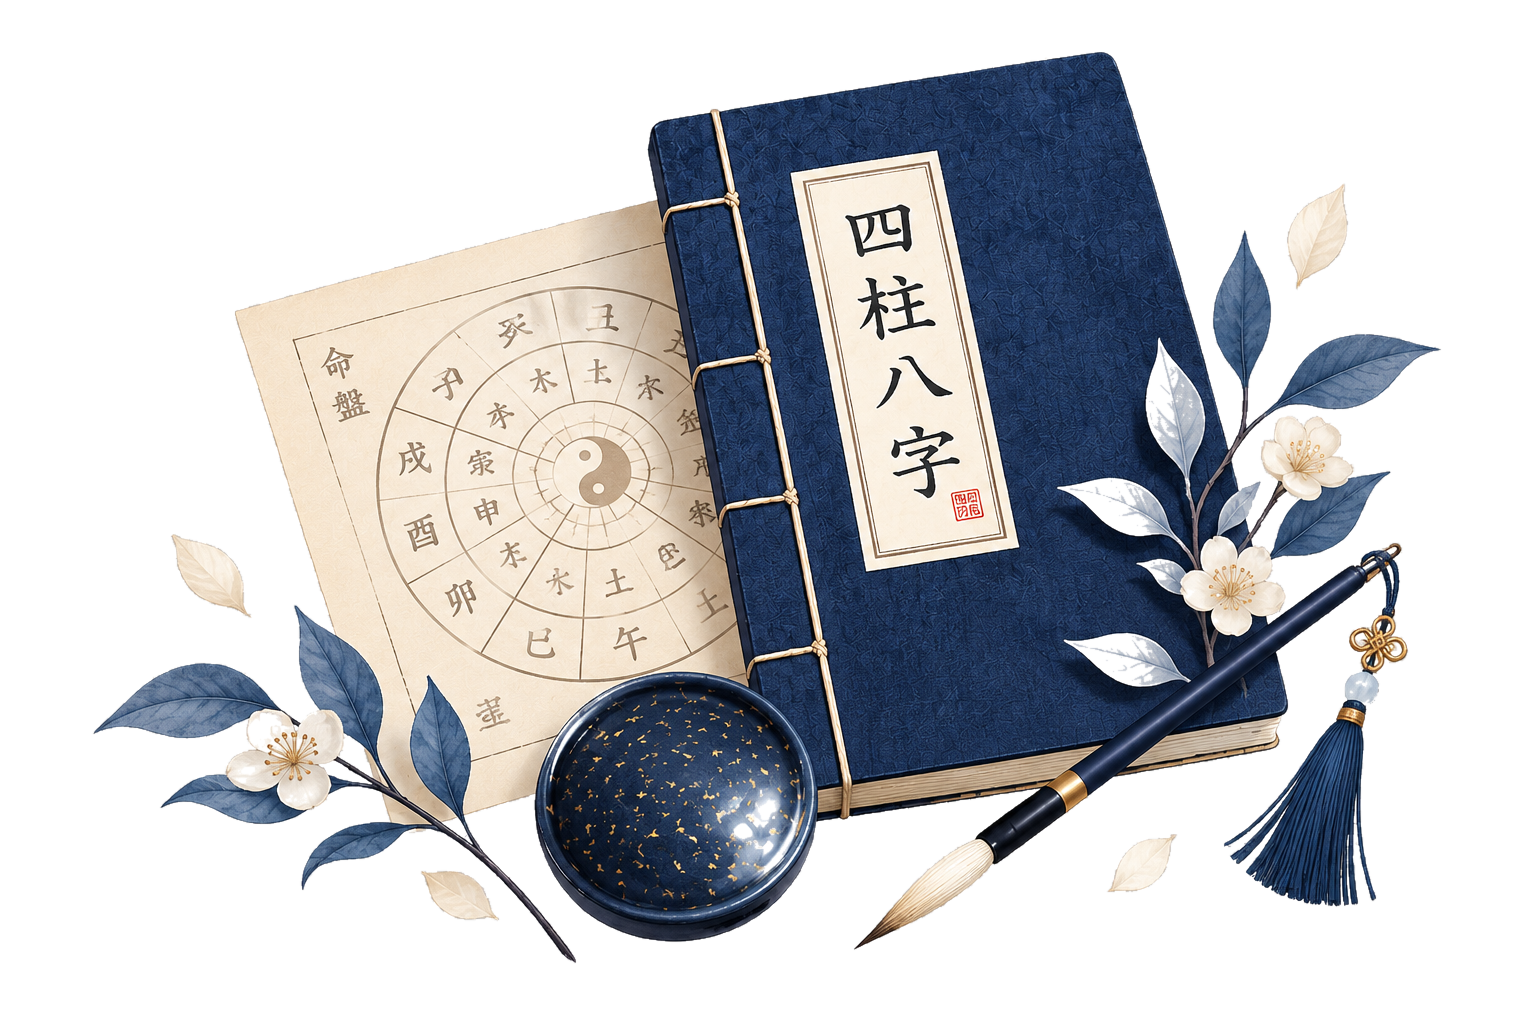
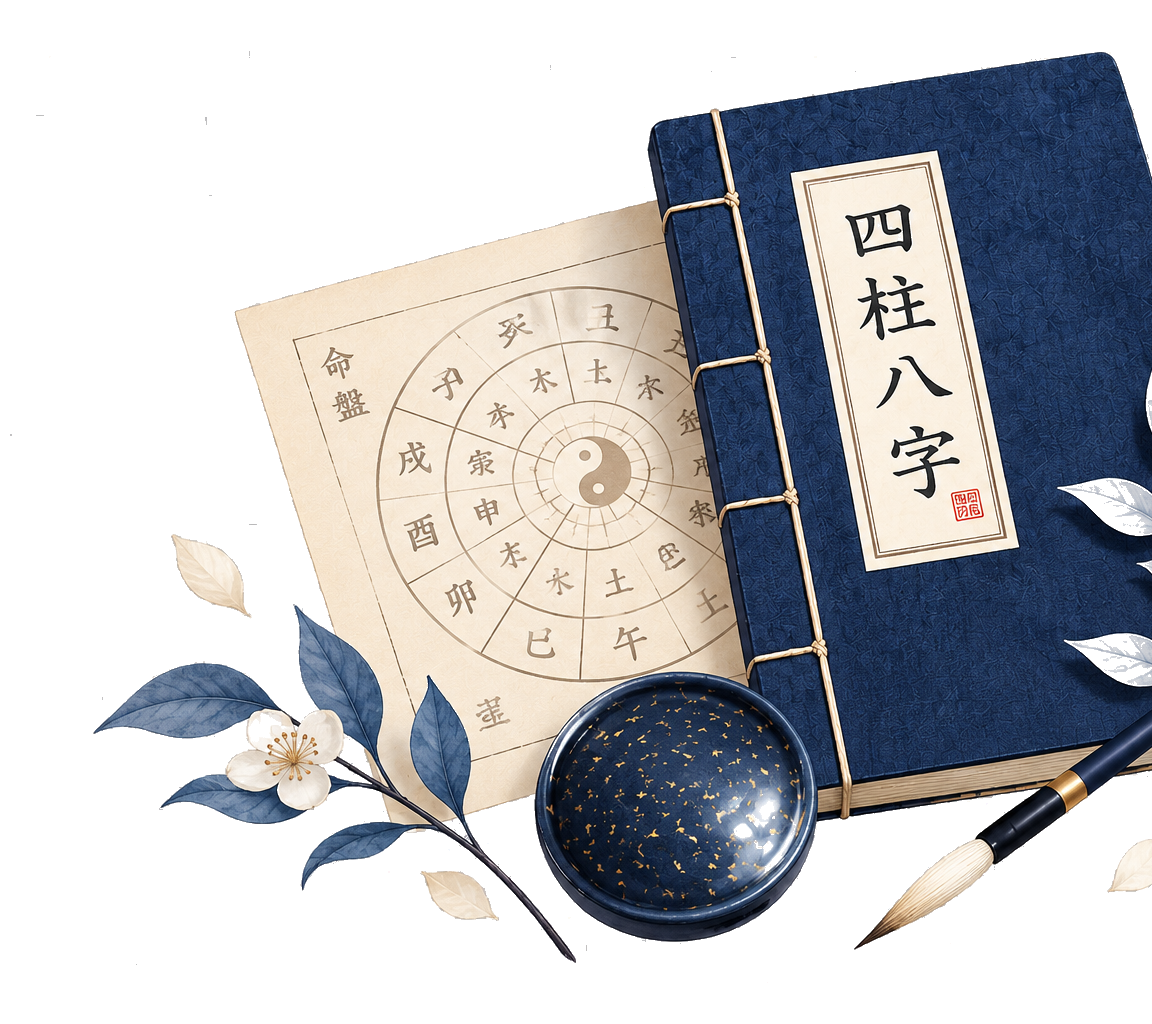
design: 사주/타로 카드 좌우 2영역 구조 + 신규 일러스트 반영(디자인 확인용)
Claude-Session: https://claude.ai/code/session_014HWyJyyZfd8jGiYnyptAu7

diff --git a/index.html b/index.html
@@ -1127,18 +1127,17 @@ body{overflow-x:hidden}
 .e-arow.flow .on{background:var(--flow)}
 
 /* 사주/타로 카드 이미지(design-mock 전용, has-img) — 기존 .e-svc는 실제 홈에서도 쓰이므로
-   무수정. 텍스트(제목/설명/CTA)는 원래 폭 그대로 두고, 이미지는 카드 오른쪽 아래에
-   실제 텍스트 줄(설명 1줄·cta-row 실제 폭)의 진짜 렌더 폭을 피해 크게 배치한다. object-fit:cover로
-   확대·크롭해 카드 오른쪽 바깥으로 일부가 걸치는 editorial 톤을 낸다. 화살표(go)는 더 이상
-   오른쪽 정렬이 아니라 CTA 라벨 바로 옆(왼쪽)에 붙여 이미지와 겹치지 않게 한다. */
-.e-svc.has-img{overflow:hidden}
-.e-svc.has-img .svc-txt{display:flex;flex-direction:column;gap:3px;flex:1}
-.e-svc.has-img .cta{word-break:keep-all}
-.e-svc.has-img .cta-row{display:flex;align-items:center;gap:8px;margin-top:auto;position:relative;z-index:2}
-.e-svc.has-img .go{margin-top:0}
-.e-svc.has-img .svc-img{position:absolute;z-index:1;left:92px;top:94px;width:130px;height:78px;object-fit:cover;border-radius:2px;pointer-events:none}
-.e-svc.saju.has-img .svc-img{object-position:64% 40%}
-.e-svc.tarot.has-img .svc-img{object-position:46% 44%}
+   무수정. 카드 내부를 좌(텍스트 58%)·우(이미지 42%) 두 영역으로 구조적으로 나눠서, 위치
+   계산으로 겹침을 피하던 이전 방식 대신 flex 컬럼 자체가 겹침을 원천 차단하게 한다.
+   화살표 버튼(원형)은 제거하고 CTA 한 줄 텍스트 링크로 통합("~하기 →"). */
+.e-svc.has-img{overflow:hidden;display:flex;flex-direction:row;align-items:stretch;gap:10px}
+.e-svc.has-img .svc-txt{flex:0 0 58%;max-width:58%;min-width:0;display:flex;flex-direction:column;gap:3px}
+.e-svc.has-img .cta{word-break:keep-all;margin-top:auto;font-size:12.5px;font-weight:700;color:var(--cob)}
+.e-svc.tarot.has-img .cta{color:#C2506B}
+.e-svc.has-img .svc-imgcol{flex:0 0 42%;max-width:42%;position:relative;border-radius:6px;overflow:hidden;margin:-16px -14px -14px 0}
+.e-svc.has-img .svc-img{position:absolute;inset:0;width:100%;height:100%;object-fit:cover;pointer-events:none}
+.e-svc.saju.has-img .svc-img{object-position:66% 38%}
+.e-svc.tarot.has-img .svc-img{object-position:40% 42%}
 .e-tdy-title{margin-top:4px}
 
 /* Hero 브랜드 타이틀 강조(design-mock 전용, mock-kicker) — 실제 홈의 .e-kicker는 무수정 */
@@ -7746,8 +7745,8 @@ const SERVER = (function () {
 
       '<div style="margin-top:18px">' + todaySection + '</div>' +
 
-      '<div class="e-duo" style="margin-top:18px"><button class="e-svc saju has-img" data-go="' + (state.facts ? 'mine' : 'input') + '"><span class="svc-txt"><span class="k">사주</span><b>사주</b><p>내 사주를 보고, 궁금한 것을 물어보세요</p><span class="cta-row"><span class="cta">사주 시작하기</span><span class="go">→</span></span></span><img class="svc-img" src="img/service-saju.png" alt=""></button>' +
-      '<button class="e-svc tarot has-img" data-go="tarot"><span class="svc-txt"><span class="k">타로</span><b>타로</b><p>지금 궁금한 일을 카드에 물어보세요</p><span class="cta-row"><span class="cta">타로 시작하기</span><span class="go">→</span></span></span><img class="svc-img" src="img/service-tarot.png" alt=""></button></div>' +
+      '<div class="e-duo" style="margin-top:18px"><button class="e-svc saju has-img" data-go="' + (state.facts ? 'mine' : 'input') + '"><span class="svc-txt"><span class="k">사주</span><b>사주</b><p>내 사주를 보고, 궁금한 것을 물어보세요</p><span class="cta">사주 시작하기 →</span></span><span class="svc-imgcol"><img class="svc-img" src="img/service-saju.png" alt=""></span></button>' +
+      '<button class="e-svc tarot has-img" data-go="tarot"><span class="svc-txt"><span class="k">타로</span><b>타로</b><p>지금 궁금한 일을 카드에 물어보세요</p><span class="cta">타로 시작하기 →</span></span><span class="svc-imgcol"><img class="svc-img" src="img/service-tarot.png" alt=""></span></button></div>' +
       '<p class="e-tiny">' + (state.facts ? esc(nickname()) + '님, 지난번 이어서 볼까요? 아래에서 바로 질문할 수 있어요.' : '가입 없이 30초. 생년월일만 넣으면 돼요.') + '</p>' +
 
       '<div class="e-band white" style="margin-top:18px"><section id="sec-q" class="e-sec" style="border-top:0;padding-top:0;margin-top:0"><div class="e-sech"><h2 class="e-h2">이런 질문을 많이 해요</h2><button class="e-link" data-go="ask/' + (state.facts ? state.facts.movement.key : 'money') + '">질문 전체보기 →</button></div><p class="e-cap">사주를 기준으로 답을 보는 질문이에요. 기본 답은 무료로 볼 수 있어요.</p><div class="e-qs">' + qs.map(q => '<button class="e-q" data-go="q/' + q.id + '"><span>' + esc(q.t) + '</span><i>›</i></button>').join('') + '</div></section></div>' +
